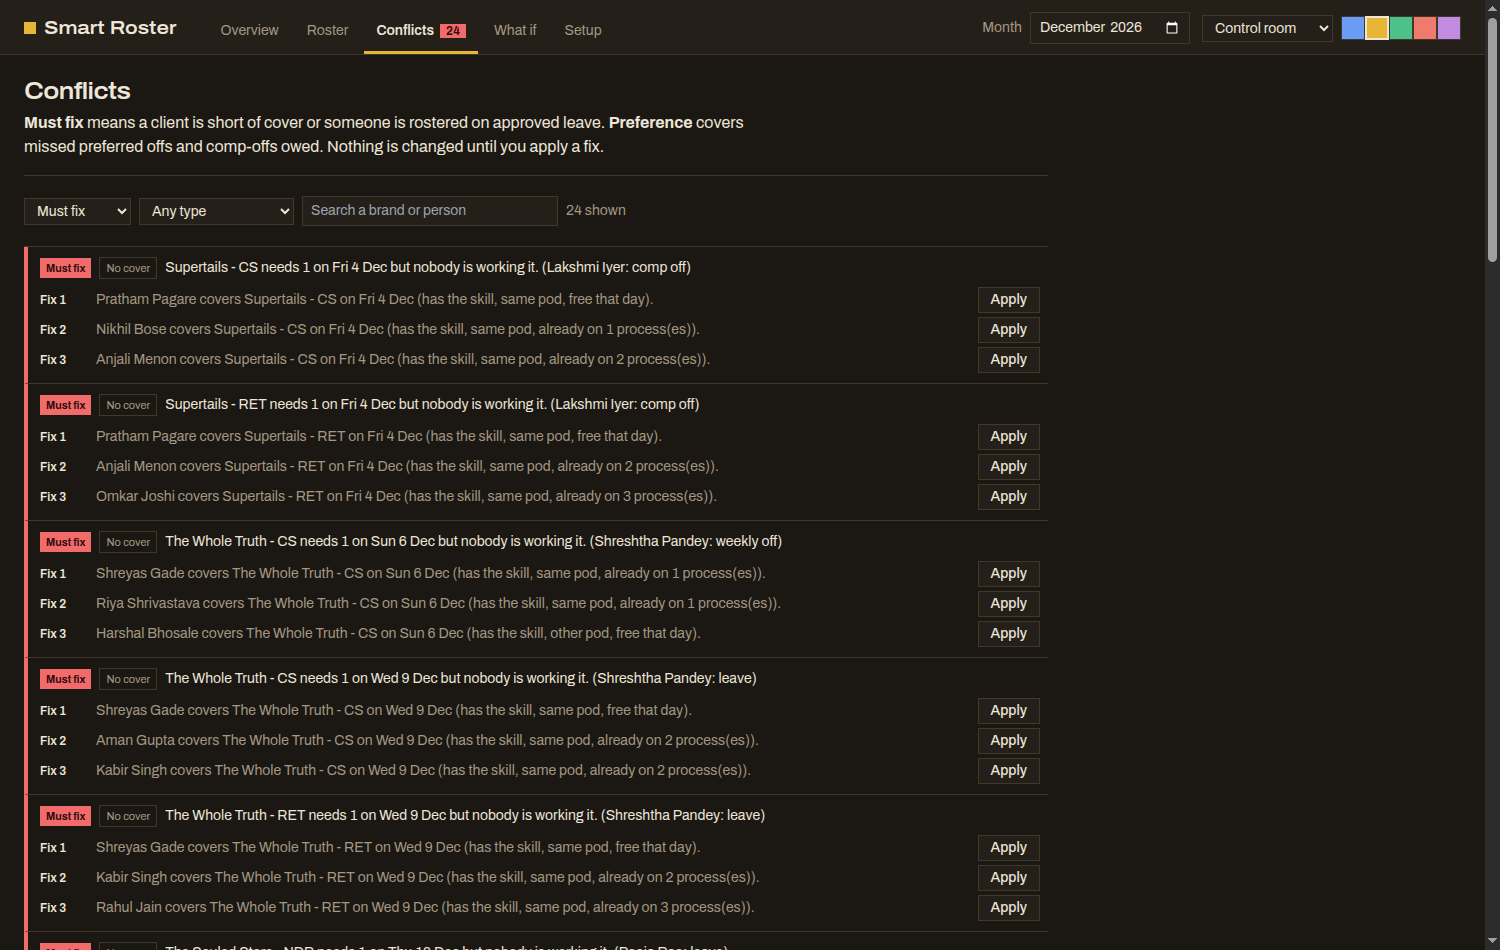
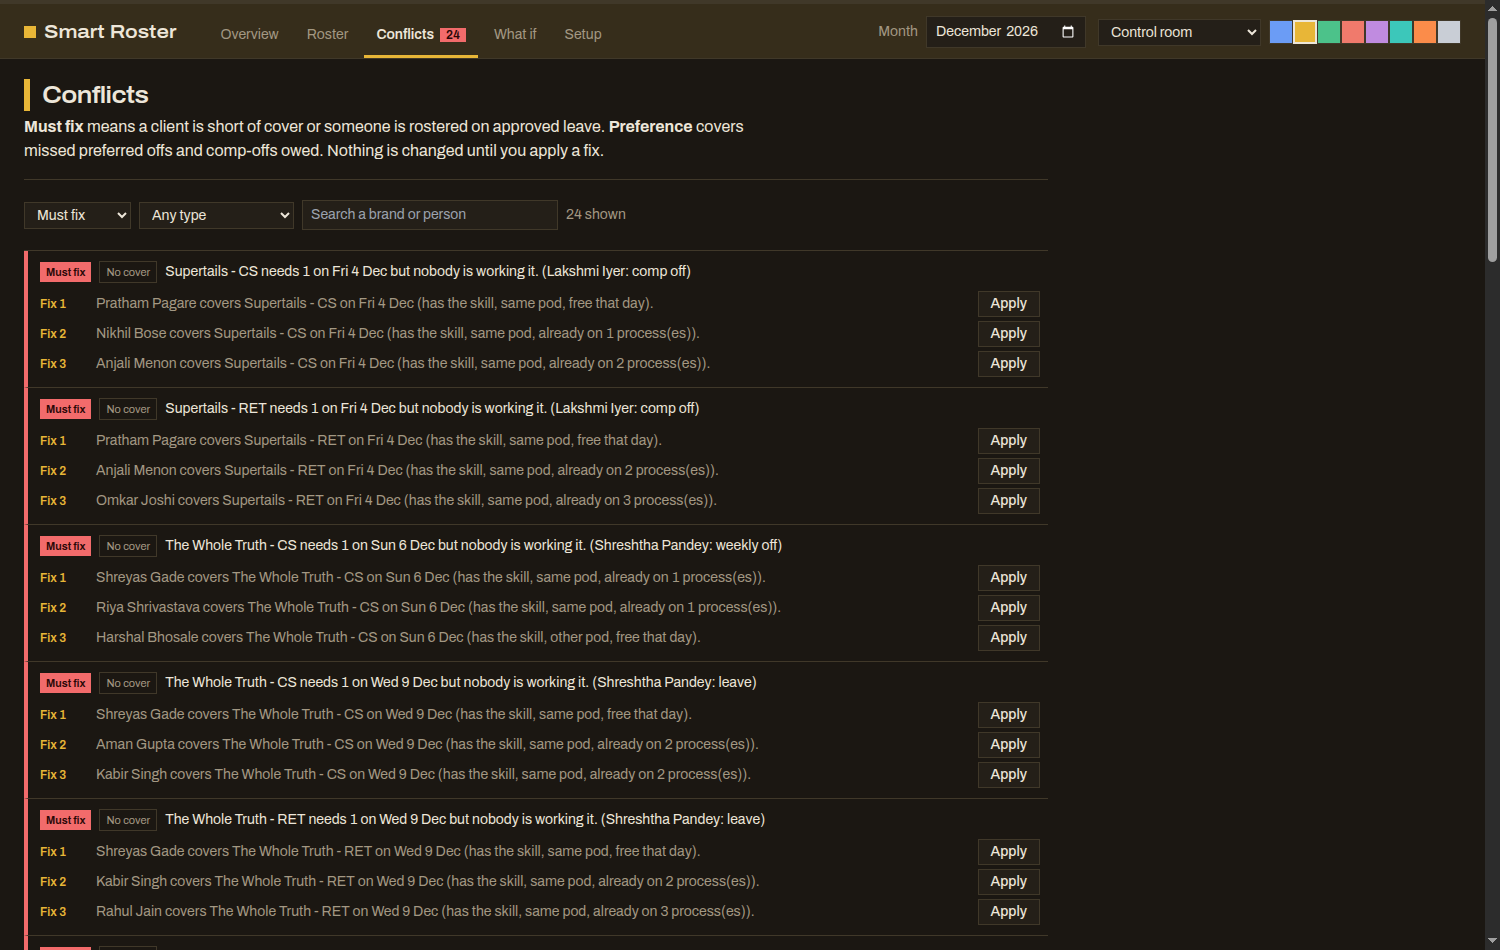
More themes (5 light, 5 dark), 8 accents, stronger accent presence, refreshed screenshots

diff --git a/frontend/src/theme.tsx b/frontend/src/theme.tsx
@@ -10,10 +10,18 @@ interface Base {
 }
 
 export const BASES: Record<string, Base> = {
+  // light
   daylight: { name: "Daylight", kind: "light", canvas: "#F3F4F1", surface: "#FFFFFF", line: "#C9CCC4", ink: "#1A1D1A", muted: "#5E635C" },
   drafting: { name: "Drafting", kind: "light", canvas: "#EEF2F7", surface: "#FBFCFE", line: "#BFCADB", ink: "#12223A", muted: "#52627A" },
+  concrete: { name: "Concrete", kind: "light", canvas: "#E9E9E7", surface: "#F7F7F6", line: "#BDBDB8", ink: "#1C1C1C", muted: "#5C5C58" },
+  ledger: { name: "Mint ledger", kind: "light", canvas: "#E8F2EC", surface: "#F7FBF8", line: "#B5CFC0", ink: "#12261B", muted: "#4C6858" },
+  sharp: { name: "High contrast", kind: "light", canvas: "#FFFFFF", surface: "#FFFFFF", line: "#1A1A1A", ink: "#000000", muted: "#3A3A3A" },
+  // dark
   night: { name: "Night shift", kind: "dark", canvas: "#161A1F", surface: "#1E242B", line: "#36404B", ink: "#E3E7EB", muted: "#8C97A3" },
   control: { name: "Control room", kind: "dark", canvas: "#1B1712", surface: "#241F18", line: "#403829", ink: "#EDE6D9", muted: "#A39883" },
+  deepsea: { name: "Deep sea", kind: "dark", canvas: "#0E1A25", surface: "#142332", line: "#28405A", ink: "#DAE6F0", muted: "#84A0B9" },
+  carbon: { name: "Carbon", kind: "dark", canvas: "#141414", surface: "#1D1D1D", line: "#363636", ink: "#E8E8E8", muted: "#999999" },
+  sharpdark: { name: "High contrast dark", kind: "dark", canvas: "#000000", surface: "#000000", line: "#E0E0E0", ink: "#FFFFFF", muted: "#D0D0D0" },
 };
 
 // [colour on light themes, text on it] / [colour on dark themes, text on it]
@@ -23,6 +31,9 @@ export const ACCENTS: Record<string, { name: string; light: [string, string]; da
   pine: { name: "Pine", light: ["#1E7A4C", "#FFFFFF"], dark: ["#4CC28A", "#0B1F14"] },
   brick: { name: "Brick", light: ["#B23A2E", "#FFFFFF"], dark: ["#F07A6C", "#2A0D09"] },
   plum: { name: "Plum", light: ["#7A3E9D", "#FFFFFF"], dark: ["#C08BE0", "#1E0F28"] },
+  teal: { name: "Harbour teal", light: ["#0F766E", "#FFFFFF"], dark: ["#3CC7BA", "#04211E"] },
+  saffron: { name: "Saffron", light: ["#C2410C", "#FFFFFF"], dark: ["#FB8C4A", "#2A1104"] },
+  graphite: { name: "Graphite", light: ["#3B3F45", "#FFFFFF"], dark: ["#C9CED6", "#15181C"] },
 };
 
 // Roster status colours: [fill, text] for light and dark themes

diff --git a/frontend/src/components/RosterGrid.tsx b/frontend/src/components/RosterGrid.tsx
@@ -43,7 +43,7 @@ export function DayHeader({ days }: { days: string[] }) {
         return (
           <th key={d} title={hol || ""} scope="col"
             className={`px-0 py-1 font-normal text-[10px] leading-tight min-w-[28px] border-l border-line
-              ${hol ? "bg-hol text-hol-ink" : wd >= 5 ? "bg-canvas" : ""}`}>
+              ${hol ? "bg-hol text-hol-ink" : wd >= 5 ? "tint-strong" : ""}`}>
             <span className="text-muted">{DAY_NAMES[wd].slice(0, 2)}</span><br />
             <span className="text-xs font-semibold">{Number(d.slice(8))}</span>
           </th>
@@ -78,9 +78,9 @@ export default function RosterGrid({ employees, onCellClick }: Props) {
   return (
     <div className="overflow-x-auto border border-line">
       <table className="text-xs border-collapse">
-        <thead className="bg-surface">
+        <thead className="tint">
           <tr className="border-b border-line">
-            <th scope="col" className="text-left px-3 sticky left-0 bg-surface min-w-[170px] font-semibold">Employee</th>
+            <th scope="col" className="text-left px-3 sticky left-0 tint min-w-[170px] font-semibold">Employee</th>
             <DayHeader days={days} />
           </tr>
         </thead>
@@ -88,8 +88,8 @@ export default function RosterGrid({ employees, onCellClick }: Props) {
           {employees.map((emp, i) => {
             const newPod = i === 0 || employees[i - 1].pod_id !== emp.pod_id;
             return (
-              <tr key={emp.id} className={newPod && i > 0 ? "border-t-2 border-line" : "border-t border-line/60"}>
-                <th scope="row" className="px-3 py-0.5 sticky left-0 bg-surface whitespace-nowrap text-left font-normal">
+              <tr key={emp.id} className={`group ${newPod && i > 0 ? "border-t-2 border-accent/60" : "border-t border-line/60"}`}>
+                <th scope="row" className="px-3 py-0.5 sticky left-0 bg-surface group-hover:tint-strong whitespace-nowrap text-left font-normal">
                   {emp.name}
                   {emp.is_pod_lead && <span className="ml-1.5 text-[10px] px-1 border border-accent text-accent">lead {podName(emp.pod_id)}</span>}
                 </th>

diff --git a/frontend/src/index.css b/frontend/src/index.css
@@ -10,19 +10,28 @@
 
 body {
   @apply bg-canvas text-ink;
+  accent-color: rgb(var(--accent)); /* checkboxes, radios */
   font-variant-numeric: tabular-nums;
   font-feature-settings: "tnum";
 }
 
-h1 { font-stretch: 112%; @apply text-2xl font-semibold tracking-tight; }
+h1 { font-stretch: 112%; @apply text-2xl font-semibold tracking-tight border-l-[6px] border-accent pl-3; }
 h2 { font-stretch: 106%; @apply text-base font-semibold; }
 
 :focus-visible { outline: 2px solid rgb(var(--accent)); outline-offset: 1px; }
 
 .btn { @apply px-3 py-1.5 text-sm font-medium bg-accent text-on-accent border border-accent hover:brightness-110 disabled:opacity-40; }
 .btn-light { @apply px-3 py-1.5 text-sm font-medium bg-surface text-ink border border-line hover:border-ink disabled:opacity-40; }
-.input { @apply border border-line px-2 py-1 text-sm bg-surface text-ink; }
+.input { @apply border border-line px-2 py-1 text-sm bg-surface text-ink focus:border-accent; }
 .panel { @apply bg-surface border border-line; }
-.panel-head { @apply flex flex-wrap items-center justify-between gap-2 px-4 py-2.5 border-b border-line; }
+.panel-head { @apply flex flex-wrap items-center justify-between gap-2 px-4 py-2.5 border-b-2 border-accent; }
 .panel-body { @apply p-4; }
 .hint { @apply text-sm text-muted; }
+
+/* Accent tints mixed into the surface (solid, so sticky table cells stay opaque) */
+@layer utilities {
+  .tint { background-color: color-mix(in srgb, rgb(var(--accent)) 9%, rgb(var(--surface))); }
+  .tint-strong { background-color: color-mix(in srgb, rgb(var(--accent)) 18%, rgb(var(--surface))); }
+}
+.panel-head { background-color: color-mix(in srgb, rgb(var(--accent)) 9%, rgb(var(--surface))); }
+a { text-decoration-color: rgb(var(--accent)); }

diff --git a/frontend/src/pages/Dashboard.tsx b/frontend/src/pages/Dashboard.tsx
@@ -36,7 +36,7 @@ export default function Dashboard() {
     <div className="space-y-5">
       <h1>{new Date(month + "-01T00:00:00").toLocaleString("en-IN", { month: "long", year: "numeric" })}</h1>
 
-      <dl className="flex flex-wrap panel">
+      <dl className="flex flex-wrap panel border-t-4 border-t-accent">
         <Figure label="Required shifts covered" value={`${s.coverage_pct}%`} note={`${s.covered_slots} of ${s.required_slots}`} />
         <Figure label="Must fix" value={s.hard} note="before publishing" alert={s.hard > 0} />
         <Figure label="Preference conflicts" value={s.soft} note="offs and comp-offs" />
@@ -125,7 +125,7 @@ function Figure({ label, value, note, alert, last }: { label: string; value: str
   return (
     <div className={`px-5 py-3 flex-1 min-w-[150px] ${last ? "" : "border-r border-line"}`}>
       <dt className="text-sm text-muted">{label}</dt>
-      <dd className={`text-3xl font-semibold leading-tight ${alert ? "text-danger" : ""}`} style={{ fontStretch: "115%" }}>{value}</dd>
+      <dd className={`text-3xl font-semibold leading-tight ${alert ? "text-danger" : "text-accent"}`} style={{ fontStretch: "115%" }}>{value}</dd>
       <dd className="text-xs text-muted">{note}</dd>
     </div>
   );

diff --git a/frontend/src/components/ConflictList.tsx b/frontend/src/components/ConflictList.tsx
@@ -53,7 +53,7 @@ export default function ConflictList({ conflicts, onApplied, readOnly }: { confl
                 <ol className="mt-2 space-y-1">
                   {c.suggestions.map((s, i) => (
                     <li key={i} className="flex flex-wrap items-center gap-2 text-muted">
-                      <span className="text-xs text-ink font-semibold w-12 shrink-0">{s.changes.length ? `Fix ${i + 1}` : "Note"}</span>
+                      <span className="text-xs text-accent font-semibold w-12 shrink-0">{s.changes.length ? `Fix ${i + 1}` : "Note"}</span>
                       <span className="flex-1 min-w-[240px]">{s.description}</span>
                       {s.changes.length > 0 && !readOnly && (
                         <button className="btn-light !py-0.5 text-xs" disabled={!!busy} onClick={() => apply(c, s)}>

diff --git a/frontend/src/components/CoverageGrid.tsx b/frontend/src/components/CoverageGrid.tsx
@@ -12,9 +12,9 @@ export default function CoverageGrid({ bps }: { bps: BrandProcess[] }) {
   return (
     <div className="overflow-x-auto border border-line">
       <table className="text-xs border-collapse">
-        <thead className="bg-surface">
+        <thead className="tint">
           <tr className="border-b border-line">
-            <th scope="col" className="text-left px-3 sticky left-0 bg-surface min-w-[170px] font-semibold">Brand and process</th>
+            <th scope="col" className="text-left px-3 sticky left-0 tint min-w-[170px] font-semibold">Brand and process</th>
             <DayHeader days={days} />
           </tr>
         </thead>

diff --git a/frontend/src/App.tsx b/frontend/src/App.tsx
@@ -19,7 +19,7 @@ export default function App() {
   const { month, setMonth, roster, error, loading } = useApp();
   return (
     <div className="min-h-screen flex flex-col">
-      <header className="bg-surface border-b border-line">
+      <header className="tint border-t-4 border-accent border-b border-line">
         <div className="flex flex-wrap items-end gap-x-8 gap-y-2 px-4 md:px-6 pt-3">
           <div className="pb-3 flex items-baseline gap-2">
             <span className="w-3 h-3 bg-accent inline-block self-center" />

diff --git a/README.md b/README.md
@@ -10,10 +10,10 @@ for 34 employees across 22 brands, 5 processes and 5 pods.
 | | |
 |---|---|
 | **Overview** (Daylight, Signal blue): coverage, must-fix count, who is on shift on any day | ![Overview](docs/screenshots/overview.png) |
-| **Roster** (Night shift, Pine): every person and day, grouped by pod, with gaps outlined | ![Roster](docs/screenshots/roster.png) |
+| **Roster** (Deep sea, Harbour teal): every person and day, grouped by pod, with gaps outlined | ![Roster](docs/screenshots/roster.png) |
 | **Conflicts** (Control room, Railway yellow): plain-English problems with ranked, pre-tested fixes | ![Conflicts](docs/screenshots/conflicts.png) |
-| **What if** (Drafting, Plum): one person's absence, the gaps it causes, and how to fill them | ![What if](docs/screenshots/what-if.png) |
-| **Setup** (Daylight, Brick): people, brands, rules and assignments, editable without code changes | ![Setup](docs/screenshots/setup.png) |
+| **What if** (Mint ledger, Plum): one person's absence, the gaps it causes, and how to fill them | ![What if](docs/screenshots/what-if.png) |
+| **Setup** (Concrete, Saffron): people, brands, rules and assignments, editable without code changes | ![Setup](docs/screenshots/setup.png) |
 
 - **Backend:** Python 3.12, FastAPI, SQLAlchemy, SQLite. The scheduler is pure Python and unit tested.
 - **Frontend:** React 18, Vite, TypeScript, Tailwind CSS.
@@ -77,8 +77,8 @@ frontend/src/
 - **Publish:** blocked while HARD conflicts exist, unless you explicitly override. Editing a published
   roster sets it back to DRAFT. Every change is recorded in a change log.
 - **Export:** CSV and colour-coded Excel.
-- **Themes:** 2 light themes (Daylight, Drafting) and 2 dark themes (Night shift, Control room), each
-  with 5 accent colours. The choice is saved in the browser. A link can also set it, for example
+- **Themes:** 5 light themes (Daylight, Drafting, Concrete, Mint ledger, High contrast) and 5 dark themes
+  (Night shift, Control room, Deep sea, Carbon, High contrast dark), each with 8 accent colours. The choice is saved in the browser. A link can also set it, for example
   `/roster?theme=night&accent=pine`.
 - **Shareable what-if links:** `/simulator?person=Kabir Singh&from=2026-12-16` opens with that scenario
   already checked.
